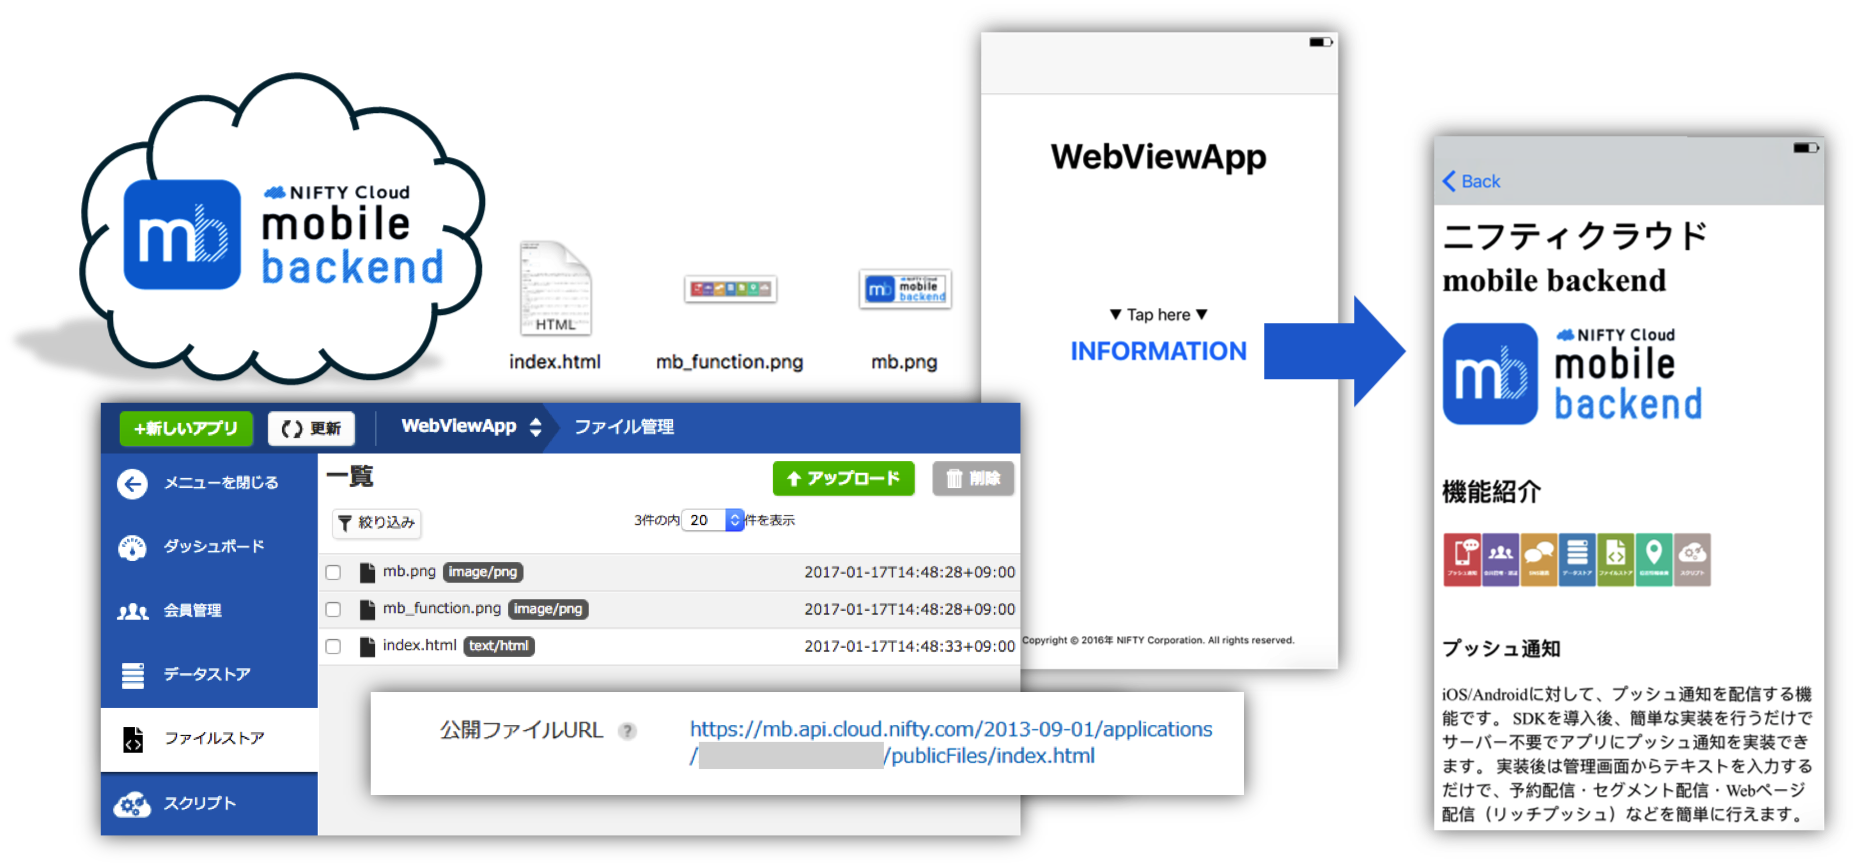
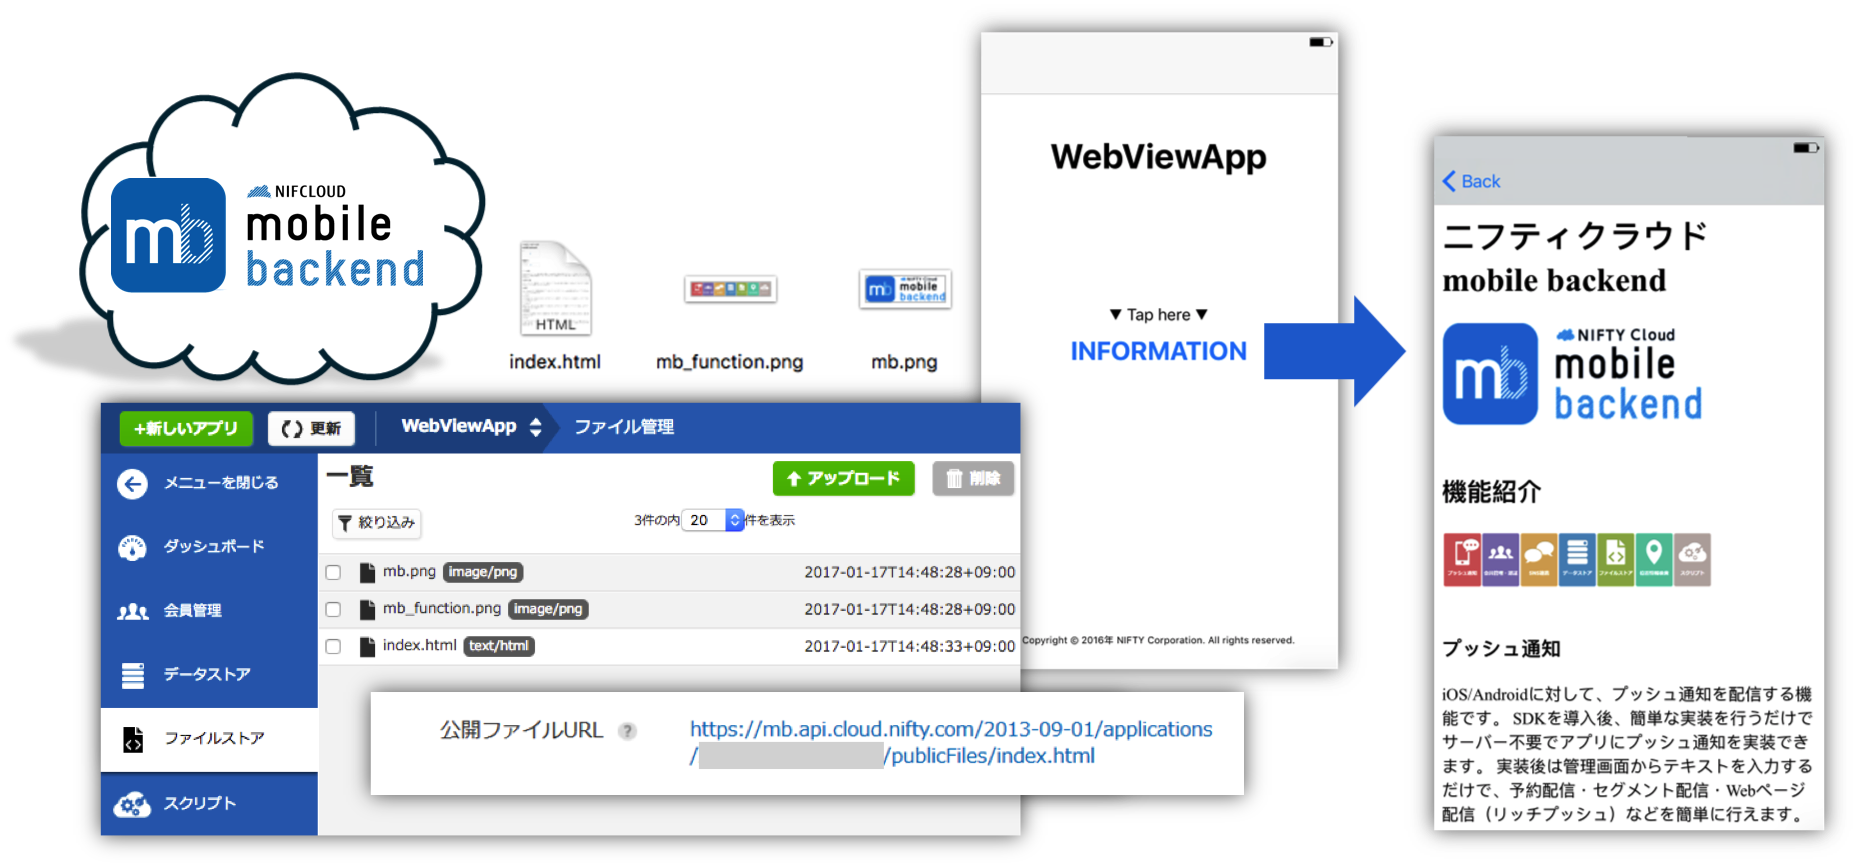
Update readme and images

Changed region(s): [[0.0625, 0.1869, 0.2499, 0.3426]]

diff --git a/SwiftWebViewApp/AppDelegate.swift b/SwiftWebViewApp/AppDelegate.swift
@@ -3,7 +3,7 @@
 //  SwiftWebViewApp
 //
 //  Created by Natsumo Ikeda on 2016/10/24.
-//  Copyright 2017 FUJITSU CLOUD TECHNOLOGIES LIMITED All Rights Reserved.
+//  Copyright 2019 FUJITSU CLOUD TECHNOLOGIES LIMITED All Rights Reserved.
 //
 
 import UIKit

diff --git a/SwiftWebViewApp/InformationViewController.swift b/SwiftWebViewApp/InformationViewController.swift
@@ -3,7 +3,7 @@
 //  SwiftWebViewApp
 //
 //  Created by Natsumo Ikeda on 2016/10/24.
-//  Copyright 2017 FUJITSU CLOUD TECHNOLOGIES LIMITED All Rights Reserved.
+//  Copyright 2019 FUJITSU CLOUD TECHNOLOGIES LIMITED All Rights Reserved.
 //
 
 import UIKit

diff --git a/SwiftWebViewApp/WebViewController.swift b/SwiftWebViewApp/WebViewController.swift
@@ -3,7 +3,7 @@
 //  SwiftWebViewApp
 //
 //  Created by Natsumo Ikeda on 2016/10/25.
-//  Copyright 2017 FUJITSU CLOUD TECHNOLOGIES LIMITED All Rights Reserved.
+//  Copyright 2019 FUJITSU CLOUD TECHNOLOGIES LIMITED All Rights Reserved.
 //
 
 import UIKit

diff --git a/README.md b/README.md
@@ -3,37 +3,36 @@ _2016/10/27作成_
 ![画像1](/readme-img/001.png)
 
 ## 概要
-* [ ニフティクラウドmobile backend ](http://mb.cloud.nifty.com/)の『ファイルストア機能』をWebサーバーとして利用し、保存したWebページを、アプリ内WebViewで表示するサンプルプロジェクトです。
-* 簡単な操作ですぐに [ ニフティクラウドmobile backend ](http://mb.cloud.nifty.com/)の機能を体験いただけます★☆
+* [ ニフクラmobile backend ](https://mbaas.nifcloud.com/)の『ファイルストア機能』をWebサーバーとして利用し、保存したWebページを、アプリ内WebViewで表示するサンプルプロジェクトです。
+* 簡単な操作ですぐに [ ニフクラmobile backend ](https://mbaas.nifcloud.com/)の機能を体験いただけます★☆
 
-##  ニフティクラウドmobile backend って何？？
+##  ニフクラmobile backend って何？？
 スマートフォンアプリのバックエンド機能（プッシュ通知・データストア・会員管理・ファイルストア・SNS連携・位置情報検索・スクリプト）が**開発不要**、しかも基本**無料**(注1)で使えるクラウドサービス！
 
-注1：詳しくは[こちら](http://mb.cloud.nifty.com/price.htm)をご覧ください
+注1：詳しくは[こちら](https://mbaas.nifcloud.com/function.htm)をご覧ください
 
 ![画像2](/readme-img/002.png)
 
 ## 動作環境
-* Mac OS X 10.12(Sierra)
-* Xcode ver. 8.0
-* Simulator ver. 10.0
- * iPhone7
+* Mac OS X 10.14.4(Mojave)
+* Xcode ver. 11.2
+* iPhone6 ver. 12.1.4
 
 ※上記内容で動作確認をしています。
 
 ## 手順
-### 1. [ ニフティクラウドmobile backend ](http://mb.cloud.nifty.com/)の会員登録・ログインとアプリの新規作成
+### 1. [ ニフクラmobile backend ](https://mbaas.nifcloud.com/)の会員登録・ログインとアプリの新規作成
 * 上記リンクから会員登録（無料）をします。登録ができたらログインをすると下図のように「アプリの新規作成」画面が出るのでアプリを作成します
 
 ![画像3](/readme-img/003.png)
 
 * アプリ作成されるとAPIキー（アプリケーションキーとクライアントキー）が発行されます
 * 「OK」をクリックします
- * **参考** ：APIキーはXcodeで作成するアプリに[ ニフティクラウドmobile backend ](http://mb.cloud.nifty.com/)を紐付けるために使用します。アプリ内でmBaaSを使用する場合には必ず必要になるものですが、今回のサンプルアプリでは使用しません。
+ * **参考** ：APIキーはXcodeで作成するアプリに[ ニフクラmobile backend ](https://mbaas.nifcloud.com/)を紐付けるために使用します。アプリ内でmBaaSを使用する場合には必ず必要になるものですが、今回のサンプルアプリでは使用しません。
 
 ### 2. GitHubからサンプルプロジェクトのダウンロード
 * 下記リンクをクリックしてプロジェクトをMacにダウンロードします
- * __[SwiftWebViewApp](https://github.com/natsumo/SwiftWebViewApp/archive/master.zip)__
+ * __[SwiftWebViewApp](https://github.com/NIFCLOUD-mbaas/SwiftWebViewApp/archive/master.zip)__
 
 ### 3. Webページの公開ファイルURLを作成する
 * 2.でダウンロードしたプロジェクトに「setting」フォルダがあります
@@ -42,7 +41,7 @@ _2016/10/27作成_
  * `mb.png`
  * `mb_function.png`
 
-* この３点のファイルを[ ニフティクラウドmobile backend ](http://mb.cloud.nifty.com/)の「ファイルストア」にアップロードします
+* この３点のファイルを[ ニフクラmobile backend ](https://mbaas.nifcloud.com/)の「ファイルストア」にアップロードします
 * ダッシュボードを開き、「ファイルストア」＞「↑アップロード」をクリックします
 
 ![画像4](/readme-img/004.png)
@@ -80,7 +79,7 @@ _2016/10/27作成_
 
 ### 5. 公開ファイルURLの設定
 * `WebViewController.swift`を編集します
-* 先程[ ニフティクラウドmobile backend ](http://mb.cloud.nifty.com/)のダッシュボード上で確認した`index.html`ファイルの「公開ファイルURL」を貼り付けます
+* 先程[ ニフクラmobile backend ](https://mbaas.nifcloud.com/)のダッシュボード上で確認した`index.html`ファイルの「公開ファイルURL」を貼り付けます
 
 ![画像10](/readme-img/010.png)
 
@@ -134,4 +133,4 @@ class WebViewController: UIViewController {
 
 ## 参考
 * 同じ内容の【Objective-C】版もご用意しています
- * https://github.com/NIFTYCloud-mbaas/ObjcWebViewApp
+ * https://github.com/NIFCLOUD-mbaas/ObjcWebViewApp
